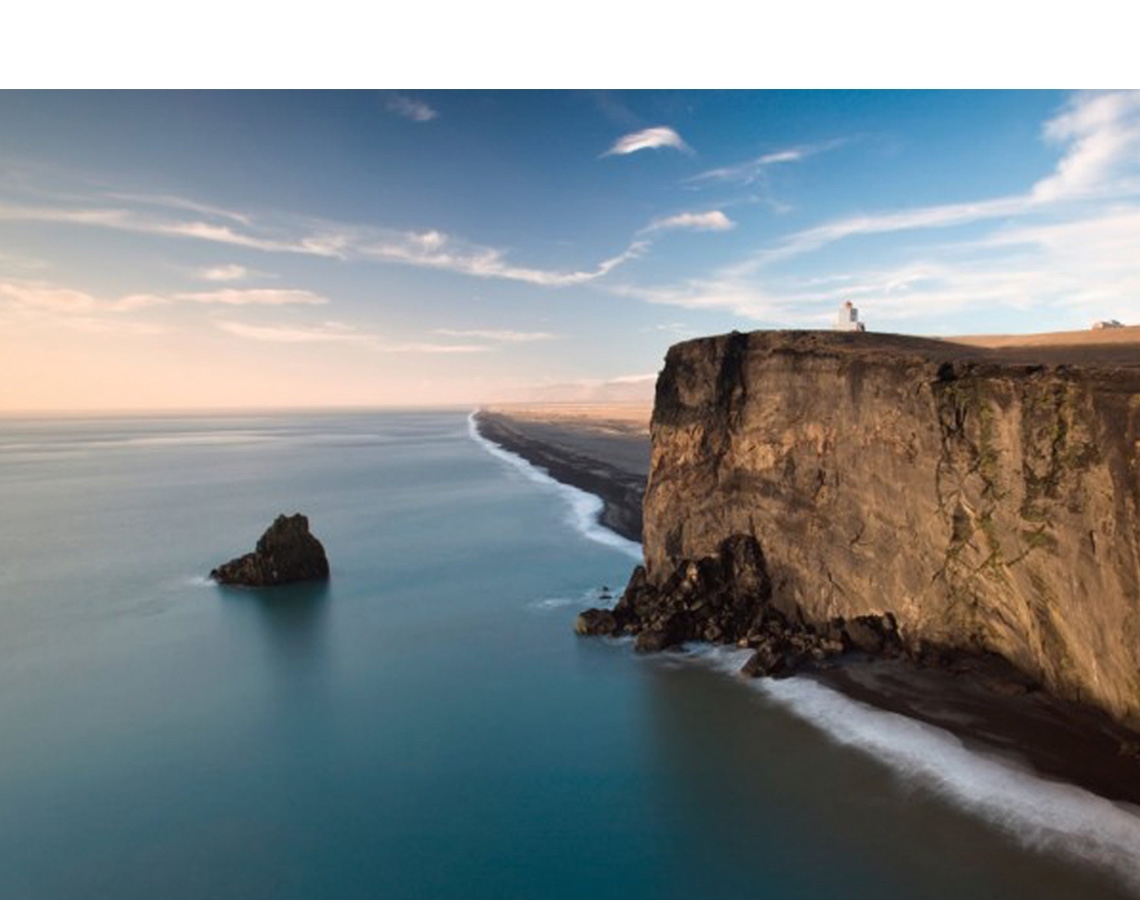
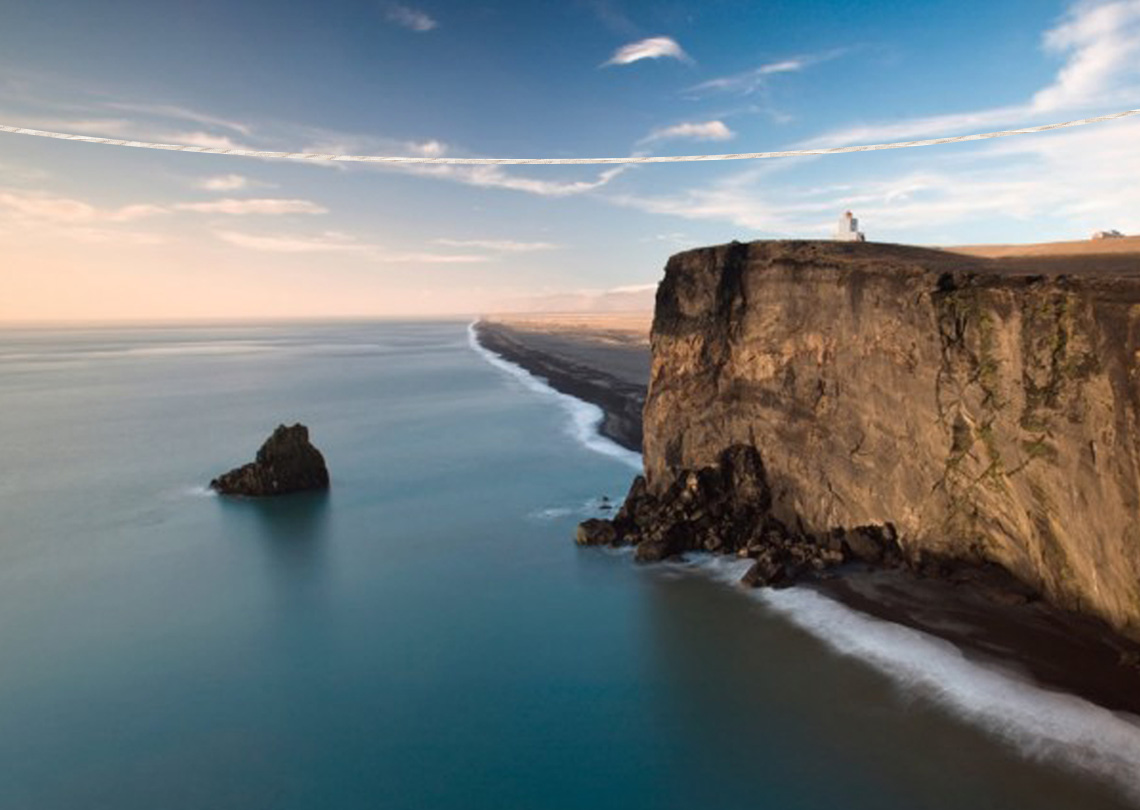
Latest

diff --git a/app/assets/stylesheets/thought.css.scss b/app/assets/stylesheets/thought.css.scss
@@ -29,7 +29,7 @@ $scale-size: 1.1;
   cursor: pointer;
   background: none;
   pointer-events: auto;
-  color: #d0d0d0;
+  color: red;
 
   &:hover {
     color: #b0b0b0;
@@ -126,7 +126,7 @@ header {
       float: left;
       color: red;
 
-      &:nth-child(4){
+      &:nth-child(5){
         margin-left: 10px;
       }
 
@@ -167,10 +167,10 @@ header {
 .thoughts {
   height: 760px;
   margin: 0 auto 40px auto;
-  background: url('/test-bg.jpg'); 
+  // background: url('/test-bg.jpg'); 
   position: relative;
 
-  @include transition-prefixes("opacity 0.3s ease-in");
+  @include transition-prefixes("opacity 0.8s ease-in");
 }
 
 .thought {
@@ -179,8 +179,8 @@ header {
   display: inline-block;
 
   @include transition-prefixes("all 2.0s");
-  -webkit-transform-origin: 125px 50px;
-  transform-origin: 125px 50px;
+  -webkit-transform-origin: 125px 53px;
+  transform-origin: 125px 53px;
 
   &:hover{
     @include transition-prefixes("all 1.3s");
@@ -195,47 +195,40 @@ header {
   }
 
   &:nth-child(1){
-    left: 100px;
-    top: 37px;
+    left: 40px;
+    top: 83px;
   }
 
   &:nth-child(2){
-    left: 300px;
-    top: 45px;
+    left: 240px;
+    top: 95px;
   }
   &:nth-child(3){
-    left: 500px;
-    top: 45px;
+    left: 440px;
+    top: 97px;
   }
   &:nth-child(4){
-    left: 700px;
-    top: 35px;
+    left: 650px;
+    top: 90px;
   }
   &:nth-child(5){
-    left: 900px;
-    top: 15px;
+    left: 850px;
+    top: 73px;
   }
 
   .crane{
     position: relative;
     
     &::before{
-        position: absolute;
-        content: "";
-        background:white;
-        width: 3px;
-        height: 90px;
-        left: 130px;
-        bottom: 175px;
+      position: absolute;
+      content: "";
+      background: #d2d4cc;
+      width: 3px;
+      height: 90px;
+      left: 130px;
+      bottom: 175px;
     }
-}
-
-  // &.green { background: $seafoam-green; }
-  // &.yellow { background: $buttercream-yellow; }
-  // &.orange { background: $orange; }
-  // &.blue { background: $blue-dark; }
-  // &.pink { background: $peachy-keen; }
-  // &.purple { background: $plum; }
+  }
 
 }
 
@@ -257,7 +250,7 @@ header {
   left: 0;
   right: 0;
 
-  width: 450px;
+  width: 300px;
   border: 3px solid red;
 
   background: #ffffff;
@@ -291,6 +284,8 @@ header {
       color: black;
       font-family: OxygenRegular, sans-serif;
       opacity: 1;
+      margin-left: 10px;
+      margin-right: 10px;
     }
   }
 

diff --git a/db/seeds.rb b/db/seeds.rb
@@ -15,18 +15,57 @@ urls = [
 
 colors = %w"blue green orange pink purple yellow"
 
-100.times do |i|
-	Thought.create({
-		text: "This is thought number #{i}. This is so embarassing",
-		link: urls[rand(urls.length)],
+images = %w"bean bridge campfire centralpark dock eiffeltower fountain gazebo grandcanyon greatwall grocerystore londoneye mall mayapyramid michiganavenue niagrafalls parkgazebo pool pyramids rapids river romefountain sakura sanfrancisco sunset temple timesquare tokyo train trees"
+
+a = <<eos
+I'm so lucky to have the people in my life that I have in my life.
+I feel so peaceful after I go on a long run. I'm so happy that I began taking positive steps to take care of myself.
+I'm so proud of the person that my little brother is becoming. 
+Just fell on some woman's lap as the bus came to a quick stop. What an awkward moment...
+A little nervous about the start of a new school year but I'm so excited to start learning about something I’m somewhat good at and love. 
+Locked my keys in my car, not having the best day so far, hope it changes!
+It was great seeing one of my best friends this weekend, I can't wait until next month when I can see her again.
+I ran for three minutes straight two times, thats like a record for me! 
+This is the way I'm going to live from now on. No messing around this time, I will be healthy.
+Just saw someone help an older lady with her groceries. It's nice to see that there are kind people out there.
+Having a really terrible commute today, I just used this to see something pretty!
+I am nervous about where the road will lead next, but Im so proud of all that I have been able to accomplish in my life thus far! Cant wait to see where I’ll be heading to next.
+I had the place to myself tonight, so I celebrated by accidentally cooking a steak in the microwave.. At least no one was around to see me cry.
+So tired of the people that are critiquing me lately I just wanna say I LOVE MYSELF and wouldn't change a thing about who I have become.
+Never wanted to work less in my life, hoping today goes by quickly
+Can’t believe I’ve been calling my coworker the wrong name for two weeks. Why couldn’t someone have told me, so embarrassing!
+Can't even begin to express my frustrations with everything today, I just need to let go and relax.
+First day at a new job tomorrow, hoping I feel less nervous by tomorrow
+That awkward moment when my professor asks what I'm going to do with my communications degree and I respond with bartending. And I’m serious.
+Been up for 10 minutes and have already been locked out of my apartment once. This is a personal best.
+Putting my feet on the floor this morning felt easier than it has in a long time.
+So stressed out about everything right now. I need a vacation.
+Tried buying something online and it refused to go through. Checked my bank account, I’m negative money from trying so many times. ugh.
+My credit card was denied at the grocery store tonight. So embarrassing and frustrating.
+Lost my credit card and my shoe after last night. Definitely not feeling like going outside today.
+Fell asleep in my english class today. Someone drew on my arm with sharpie and I have to work in an hour..
+Sat on a wet spot on the bus today while going home. I really hope it was just water.
+Spending my day driving around with the windows rolled down is exactly what I needed. 
+Found out today I’m an alternate to get into the nursing program at school. Really hoping I end up getting accepted, I’ve worked so hard for this!
+My glasses froze over when I went outside this morning. Winter is so not my season.
+eos
+
+words = a.split("\n")
+
+words.each do |word|
+   Thought.create({
+   		text: word,
+   		link: "/assets/thoughts/#{images.pop}.jpg",
 		color: colors[rand(colors.length)]
-	})
+   	}) 
 end
 
 
-# Thought.create({
-# text: "First one!!!",
-# 	link: "/assets/LARGE-IMG-NAME.jpg",
-# 	small_link: "/assets/SMALL-IMG-NAME.jpg",
-# 	color: "COLOR"
-# })
+# 100.times do |i|
+# 	Thought.create({
+# 		text: "This is thought number #{i}. This is so embarassing",
+# 		link: urls[rand(urls.length)],
+# 		color: colors[rand(colors.length)]
+# 	})
+# end
+
